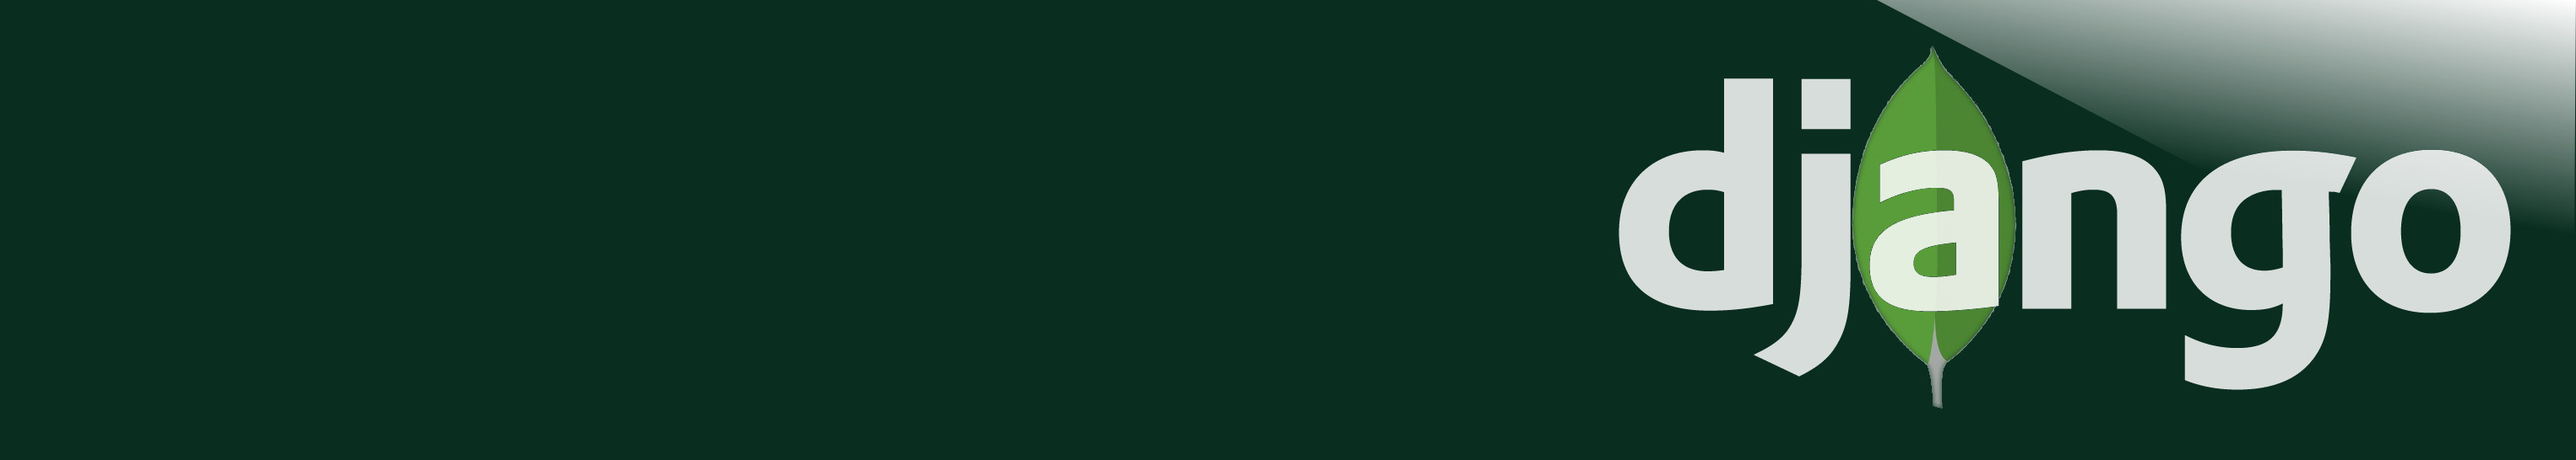
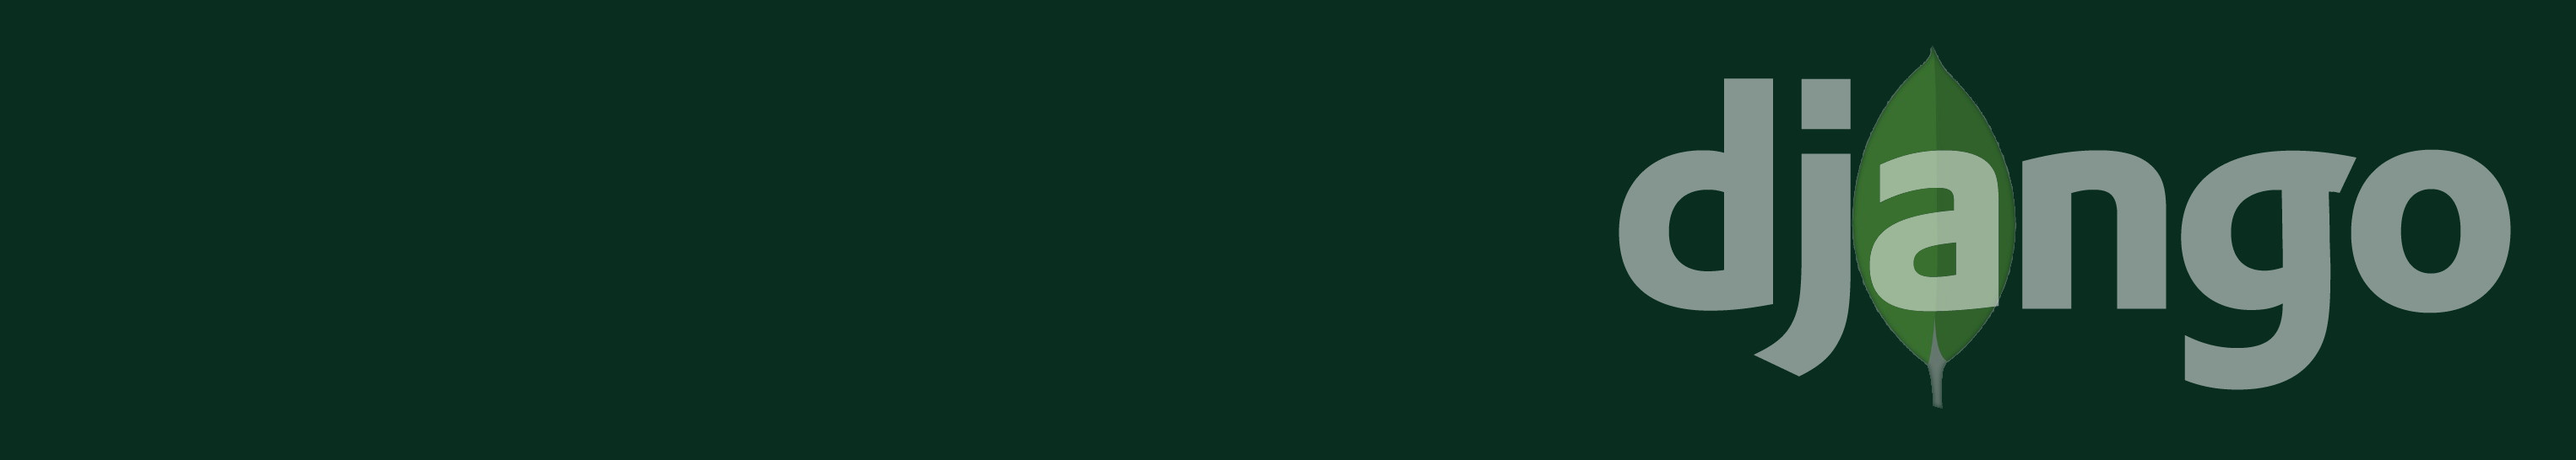
Bringing in the Django tests to test query lookups

Changed region(s): [[0.6227, 0.0, 1.0, 0.8718]]

diff --git a/docs/assets/css/main.scss b/docs/assets/css/main.scss
@@ -17,7 +17,6 @@
 
 .heart {
     padding-bottom: 0.15em;
-    padding-right: 0.075em;
     width: $type-size-2 - 0.3em;
 }
 

diff --git a/djongo/models.py b/djongo/models.py
@@ -579,8 +579,10 @@ def create_forward_array_reference_manager(superclass, rel):
             self.instance = instance
             self.model = rel.related_model
             self.field = rel.field
+            name = self.field.related_fields[0][1].attname
+            ids = getattr(instance, self.field.attname) or []
 
-            self.core_filters = {self.field.name: instance}
+            self.core_filters = {f'{name}__in': ids}
 
         def _add_items(self, source_field_name, target_field_name, *objs):
             ids = []
@@ -594,7 +596,10 @@ def create_forward_array_reference_manager(superclass, rel):
                     )
 
         def add(self, *objs):
-            pass
+            remote_field = self.field.remote_field
+            m_cli = pymongo_connections['test_djongo-test'].cursor().db_conn[self.model._meta.db_table]
+            for lh_field, rh_field in self.field.related_fields:
+                pass
 
         def remove(self, *objs):
             pass
@@ -615,17 +620,31 @@ class ReverseArrayReferenceDescriptor(ReverseManyToOneDescriptor):
             self.rel,
         )
 
-class ArrayReferenceDescriptor(ReverseArrayReferenceDescriptor):
+class ArrayReferenceDescriptor(ForwardManyToOneDescriptor):
 
     @cached_property
     def related_manager_cls(self):
-        related_model = self.rel.related_model
+        related_model = self.field.related_model
 
         return create_forward_array_reference_manager(
             related_model._default_manager.__class__,
-            self.rel,
+            self.field.remote_field,
         )
 
+    def __get__(self, instance, cls=None):
+        """
+        Get the related objects through the reverse relation.
+
+        With the example above, when getting ``parent.children``:
+
+        - ``self`` is the descriptor managing the ``children`` attribute
+        - ``instance`` is the ``parent`` instance
+        - ``cls`` is the ``Parent`` class (unused)
+        """
+        if instance is None:
+            return self
+
+        return self.related_manager_cls(instance)
 
 # class ArrayManyToManyField(ManyToManyField):
 #
@@ -659,5 +678,3 @@ class ArrayReferenceField(ForeignKey):
                          db_constraint=db_constraint, **kwargs)
 
 
-    def __set__(self, instance, value):
-        super().__set__(instance, value)

diff --git a/tests/djongo_tests/dummy_app/dummy_app/settings.py b/tests/djongo_tests/dummy_app/dummy_app/settings.py
@@ -42,10 +42,10 @@ DATABASES = {
 
 INSTALLED_APPS = [
     'dummy.apps.DummyConfig',
-    'django.contrib.admin',
-    'django.contrib.auth',
-    'django.contrib.contenttypes',
-    # # 'django.contrib.sessions',
+    # 'django.contrib.admin',
+    # 'django.contrib.auth',
+    # 'django.contrib.contenttypes',
+    # # # 'django.contrib.sessions',
     # 'django.contrib.messages',
     # 'django.contrib.staticfiles',
 ]

diff --git a/tests/djongo_tests/dummy_app/dummy/basic_reference_models.py b/tests/djongo_tests/dummy_app/dummy/basic_reference_models.py
@@ -72,7 +72,7 @@ class ReferenceEntry(models.Model):
     # body_text = models.TextField()
 
     # authors = models.ArrayReferenceField(ReferenceAuthor)
-    authors = models.ManyToManyField(ReferenceAuthor)
+    authors = models.ArrayReferenceField(ReferenceAuthor)
 
     # n_comments = models.IntegerField()
 

diff --git a/docs/docs/home.md b/docs/docs/home.md
@@ -6,7 +6,7 @@ excerpt: "Djongo"
 description: "Djongo is specifically meant to be used with the original Django ORM and MongoDB. Using the Django admin app one can directly add and modify documents stored in MongoDB. Other contrib modules such as Auth and Sessions work without any changes"
 
 header:
-    overlay_image: /assets/images/landing-banner2.jpg
+    overlay_image: /assets/images/landing-banner.jpg
 
 punchline:
   - excerpt: Use MongoDB as the backend for your Django project, without changing the Django ORM.

diff --git a/docs/docs/using-django-with-mongodb-array-field.md b/docs/docs/using-django-with-mongodb-array-field.md
@@ -197,5 +197,5 @@ class Entry(models.Model):
 
 `ArrayModelField` and `ArrayReferenceField` require all Models in the list to be of the same type. MongoDB allows the saving of arbitrary data inside it's embedded array. The `ListField` is useful in such cases. The list field cannot be represented in Django Admin though and can only be used in the python script.
 
-{{page.not_ready}}
+
 
